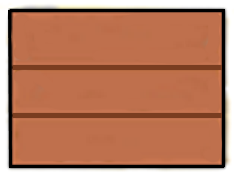
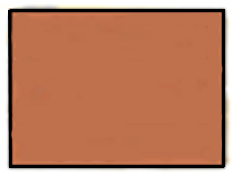
Update
recap de fin de partie, démo complète

Changed region(s): [[0.0299, 0.6215, 0.9573, 0.678], [0.0299, 0.3672, 0.9573, 0.4237], [0.0299, 0.7345, 0.0598, 0.791]]

diff --git a/Scene1.js b/Scene1.js
@@ -73,6 +73,15 @@ var config = {
 
     var mainMusic;
     var hitSound;
+    var multiplierText;
+    var scoreText;
+    var inARowText;
+    var tutoPanel;
+
+    var ecart = 17.5;
+
+    var currentSpeed = -4.5;
+    var speed_stage_1 = -5;
 //===========================================================================================================//
 //===========================================================================================================//
 //                                              PRELOAD
@@ -115,6 +124,7 @@ function preload ()
     this.load.image('boat', 'assets/Objects/Boat.png');
     this.load.image('fishIcon', 'assets/Icons/Icons_07.png');
     this.load.image('panel_endgame', 'assets/UI/panel_endgame.png');
+    this.load.image('panel_tuto', 'assets/UI/Panel_tuto.png');
 
     //Chargement des animations
     this.load.spritesheet('player_idle', 'assets/Fisherman/Fisherman_idle.png', { frameWidth: 48, frameHeight: 48 });
@@ -136,7 +146,7 @@ function preload ()
 //===========================================================================================================//
 function create ()
 {
-    mainMusic = this.sound.add("Song1", {volume: 0.5});
+    mainMusic = this.sound.add("Song1", {volume: 0.08});
     hitSound = this.sound.add("hit", {volume: 0.05});
 
     //Création de l'arrière plan
@@ -259,9 +269,10 @@ function create ()
     this.add.image(300, 398, 'Pillar1');
     this.add.image(300, 380, 'panel').setScale(1);
     this.add.image(325, 397, 'fishIcon').setScale(0.49);
+    tutoPanel = this.add.image(400,200, 'panel_tuto');
 
     
-
+//B34D54
 
     //===================================================================================================
     //UI
@@ -311,11 +322,7 @@ function create ()
     UpdatePanel(0, 1, 0);
 }
 
-var multiplierText;
-var scoreText;
-var inARowText;
 
-var ecart = 17.5;
 
 //===========================================================================================================//
 //===========================================================================================================//
@@ -341,7 +348,7 @@ function update ()
     //Gère les déplacements et les animations des poissons
     for (var i = 0; i < fishes.children.entries.length; i++) 
     {
-        MoveFish(fishes.children.entries[i], -3.34);
+        MoveFish(fishes.children.entries[i], currentSpeed);
         HandleAnimation(fishes.children.entries[i]);
     }
 
@@ -522,13 +529,14 @@ function PlaySong()
     mainMusic.play();
 }
 
-var maxFish = 30;
+var maxFish = 50;
 
 function SONG_ONE(game)
 {
 
-    //Désactive le bouton "jouer"
+    //Désactive le bouton "jouer" et le panel de tuto
     btn_jouer.destroy();
+    tutoPanel.destroy();
 
     //Lance la musique
     
@@ -547,7 +555,6 @@ function SONG_ONE(game)
         var b = rand[a];
         CreateStep(game, i * 1000, fishSpawnPointX, b, Phaser.Math.Between(1,4));
     }
-
   
 }
 
@@ -567,13 +574,11 @@ function CreateFish(x, y, type, game)
     if(type == 2) {fishes.children.entries[fishes.children.entries.length-1].name = "Marcus";}
     if(type == 3) {fishes.children.entries[fishes.children.entries.length-1].name = "Britney";}
     if(type == 4) {fishes.children.entries[fishes.children.entries.length-1].name = "Kimberly";}
-
-    //game.physics.add.overlap(hook, fishes.children.entries.length, FishIsInHook, null, this);  
     
     if(fishes.children.entries.length == maxFish)
     {
         game.time.addEvent({ delay: 5000, callback: ShowEndgamePanel, args:[game], callbackScope: this});
-    }//ICI METTRE PALLIERS
+    }
 
 }
 
@@ -581,6 +586,7 @@ function CreateStep(game, delay, x, y, type)
 {
     //Game, delay, position X, position Y, type de poisson
     game.time.addEvent({ delay: delay, callback: CreateFish, args:[x, y, type, game], callbackScope: this});
+    
 }
 
 //===========================================================================================================//
@@ -591,6 +597,7 @@ function CreateStep(game, delay, x, y, type)
 var currentScore = 0;
 var currentMultiplier = 1;
 var nbrOfFishCaughtInaRow = 0;
+var nbrOfFishCaughtInARowMax = 0;
 var nbrOfFishCaughtInTotal = 0;
 var nbrOfFishMissed = 0;
 
@@ -603,8 +610,8 @@ function addScore(scoreToAdd)
     currentScore += scoreToAdd * currentMultiplier;
     nbrOfFishCaughtInTotal += 1;
 
-    //console.log("Score : " + currentScore + " / " + "Row : " + nbrOfFishCaughtInaRow + " / m : " + currentMultiplier);
-    //console.log(nbrOfFishCaughtInaRow);
+    if(nbrOfFishCaughtInaRow > nbrOfFishCaughtInARowMax)
+        nbrOfFishCaughtInARowMax = nbrOfFishCaughtInaRow;
     
 }
 
@@ -620,25 +627,18 @@ var finaltext;
 function ShowEndgamePanel(game)
 {
     game.add.image(400, 300, 'panel_endgame');
-    finaltext = game.add.text(400,300);
-    finaltext.setText("Cela fonctionne");
+    finaltext = game.add.text(300,260);
+    finaltext.setTint(0x642E11);
+    finaltext.setText(
+        "Félicitations, vous\navez fait " + currentScore + " points.\n" +
+        "Votre série la plus\nlongue a été de " + nbrOfFishCaughtInARowMax + "."
+        );
 }
 
 /*
 TO-DO : 
-- Menu principal : bouton jouer (lance une partie et la musique) : V
-- Mettre la musique dans le jeu et faire les notes en tempo avec les poissons : X
-- Afficher le score, développer les multiplicateurs : V
 - Meilleur score persistant
-- Détecter quand le joueur rate un poisson : V
-- Mettre le score, multiplicateur et poisson d'affilé dans la zone de jeu : V
-- Ajout titre : V
 - Polish général 
     - Ajout de bulles
-    - Ajout de nuages : V
-
-- Fix le fait de choper un poisson depuis une autre ligne : V
-- Augmenter la vitesse des poissons par palliers
-- Recap de fin de partie : score de fin, série la plus longue ?, total de poissons capturés sur total de poissons
 
 */
